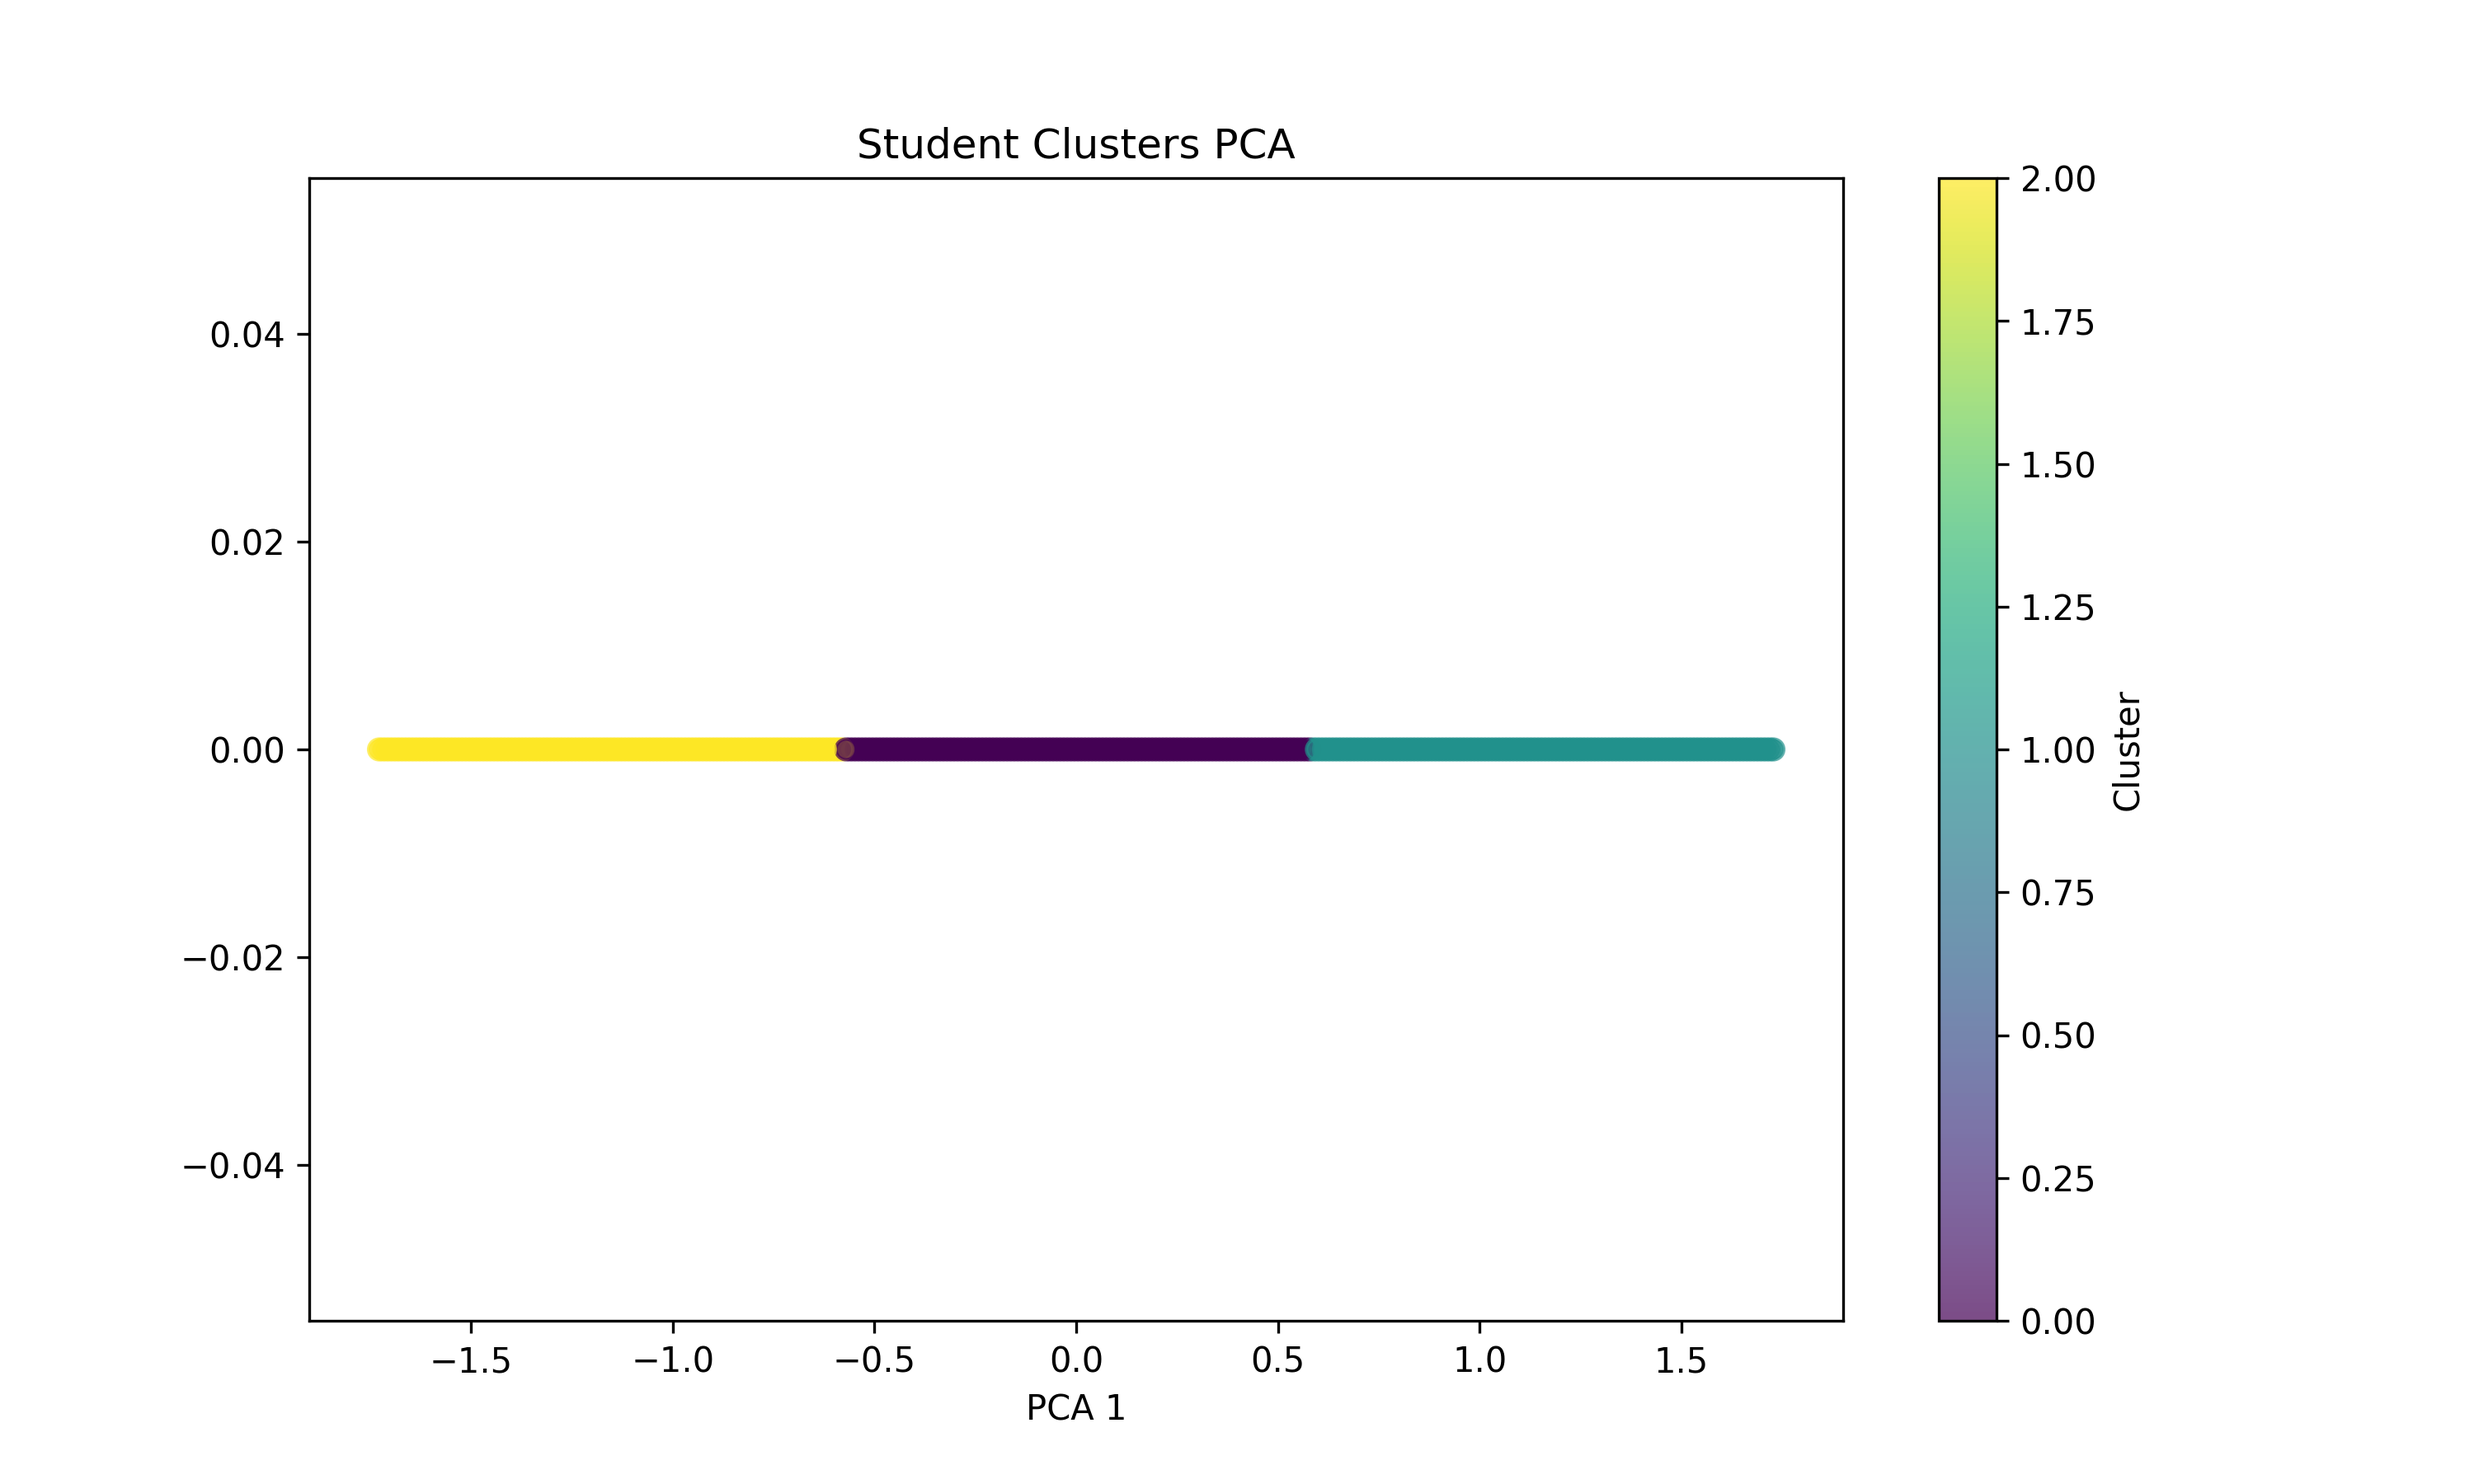
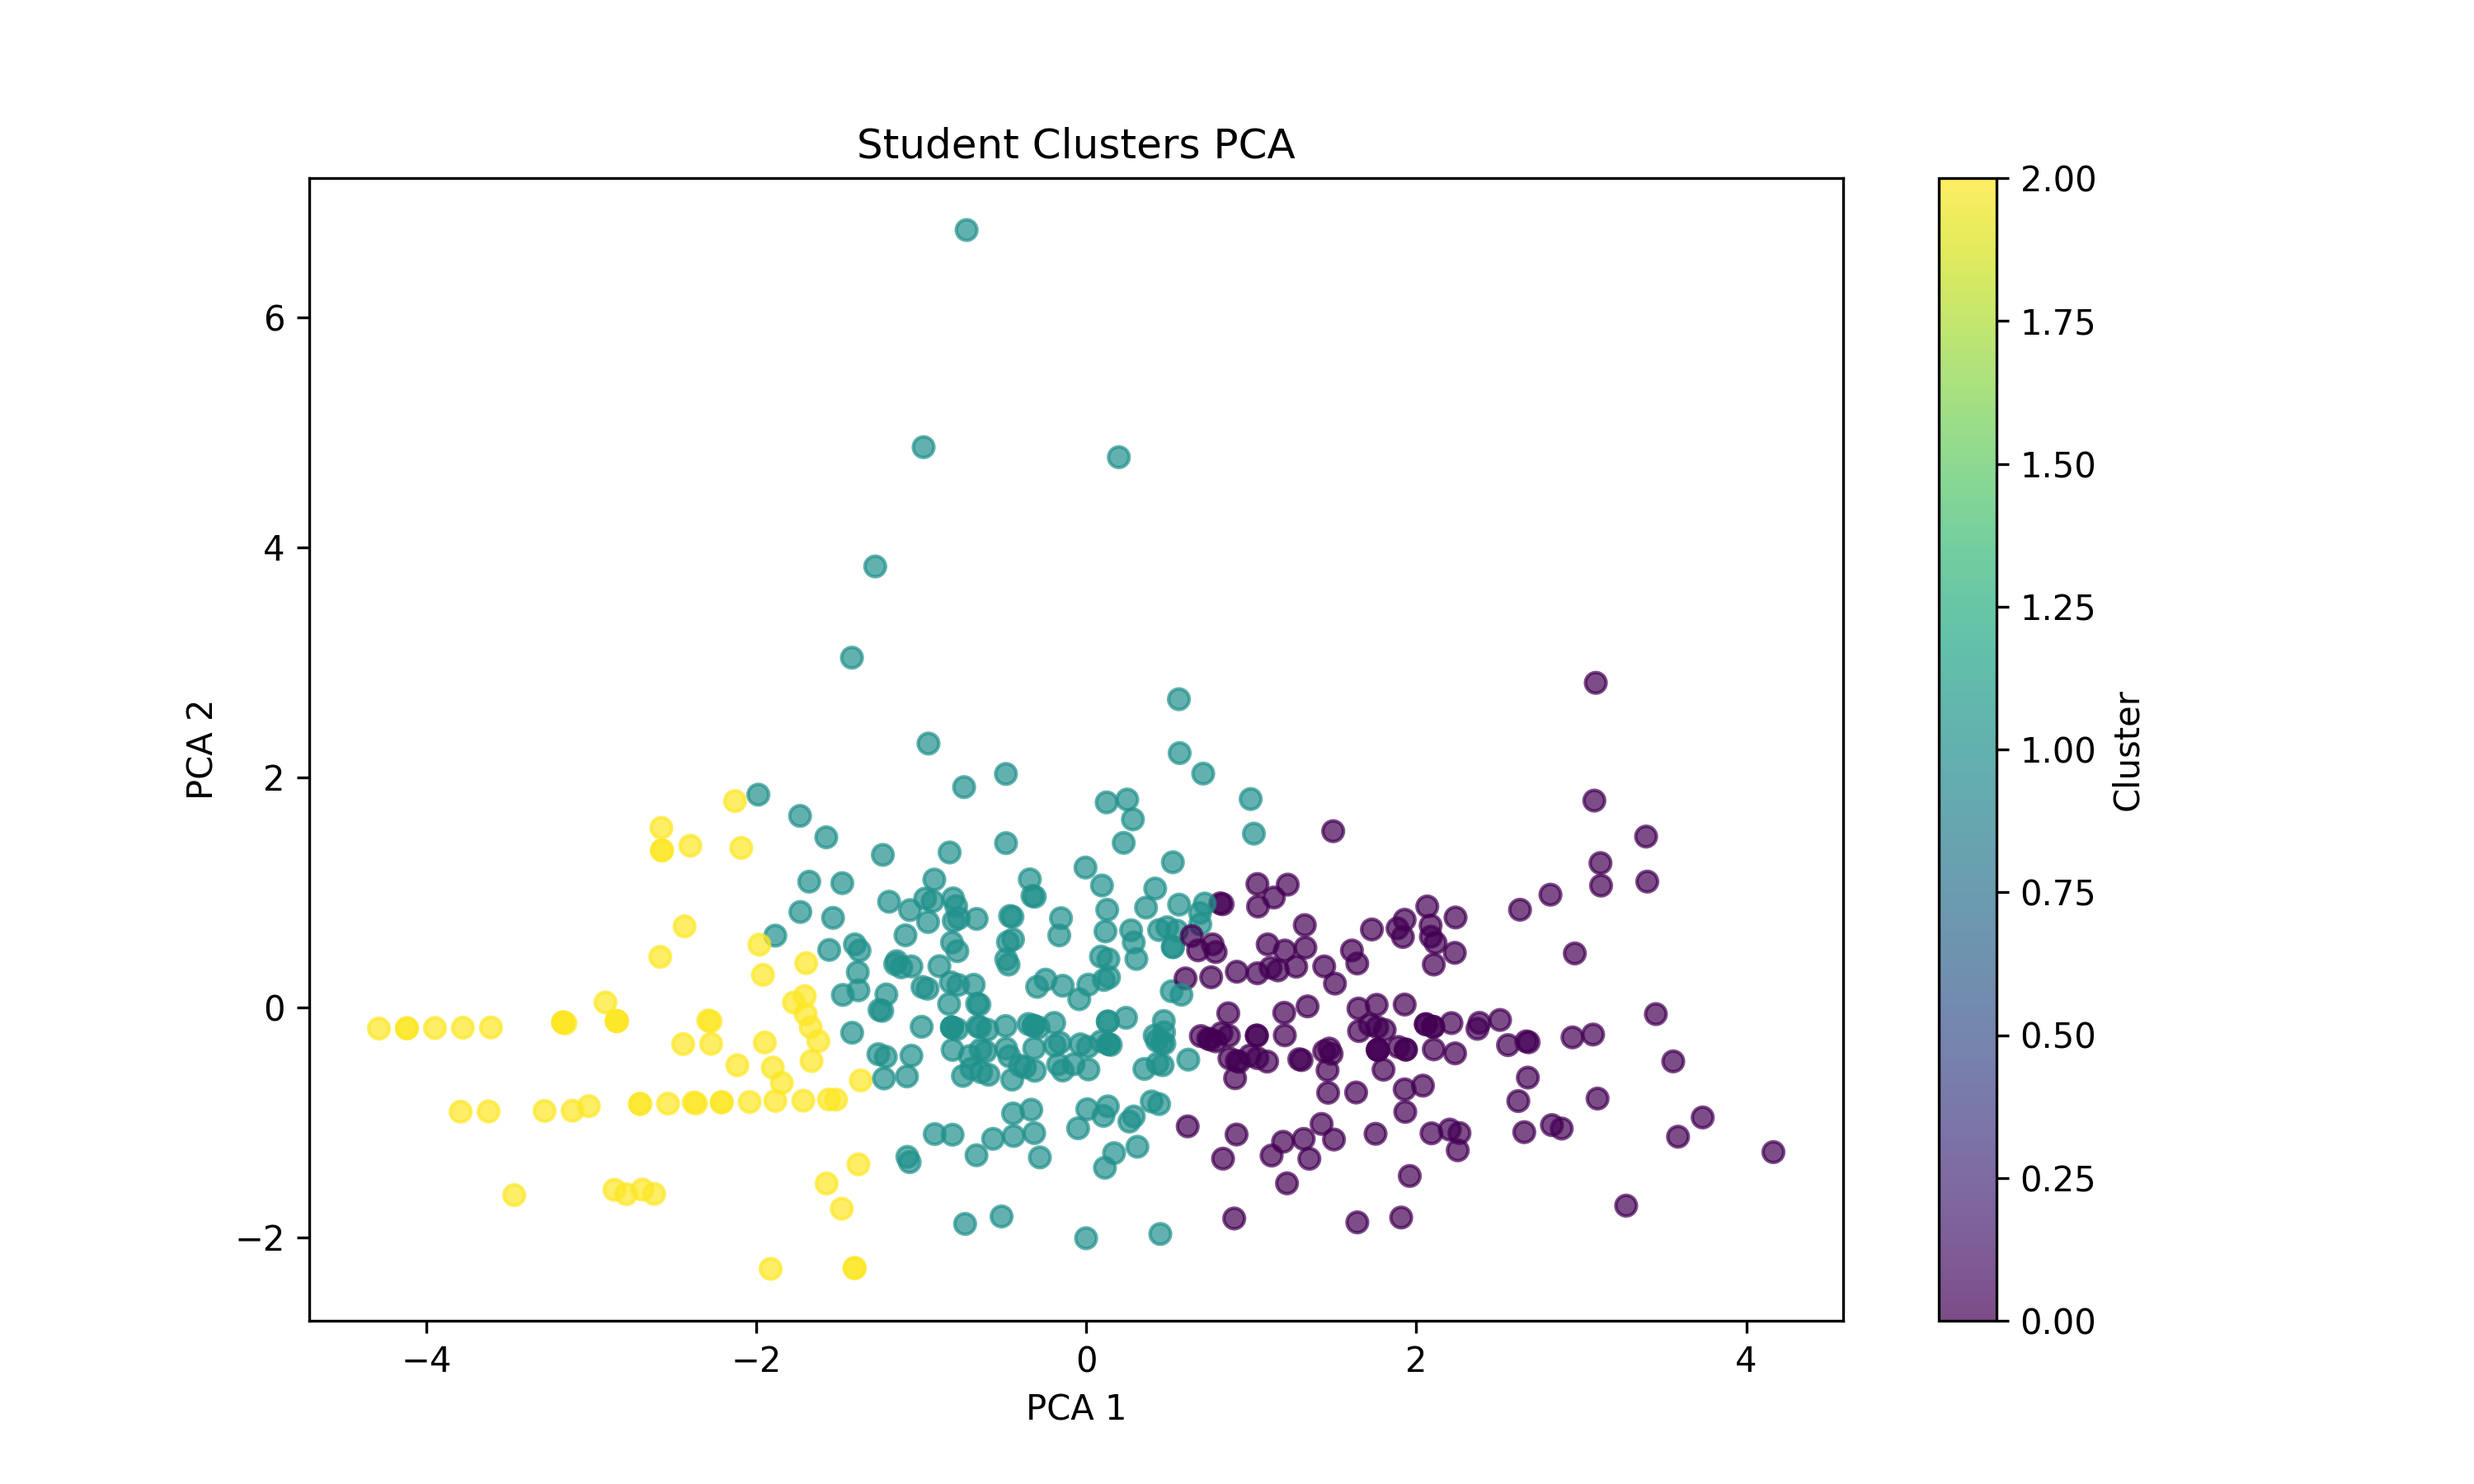
Initial commit - Streamlit student clustering project Resolve merge conflicts in student_clustering.py and update dual_login_app.py

diff --git a/dual_login_app.py b/dual_login_app.py
@@ -1,0 +1,146 @@
+import streamlit as st
+import pandas as pd
+import seaborn as sns
+import matplotlib.pyplot as plt
+from sklearn.metrics import silhouette_score
+from sklearn.decomposition import PCA 
+from student_clustering import preprocess_data, run_kmeans, cluster_summary, plot_pca
+from textblob import TextBlob
+from student_clustering import load_dataset
+
+DEFAULT_CSV = "student-mat.csv"
+st.title("Student Clustering Prototype")
+role = st.radio("Login as:", ["Student", "Teacher"])
+
+#  student portal
+
+if role == "Student":
+    st.subheader("Student Portal")
+    st.markdown("Enter your academic and skill details to get suggested study groups.")
+
+    with st.form("student_form"):
+        name = st.text_input("Name")
+        grade = st.number_input("Average Grade", min_value=0, max_value=20, value=10)
+        study_time = st.number_input("Study Hours per Week", min_value=0, max_value=40, value=5)
+        absences = st.number_input("Number of Absences", min_value=0, max_value=50, value=0)
+        # skills = st.text_area("Skills / Interests (comma-separated)")
+        article = st.text_area("Write a short article about yourself")
+        submit_student = st.form_submit_button("Get Suggested Group")
+
+    if submit_student:
+        st.success(f"Hello {name}, your group suggestions are being generated...")
+
+        # df = pd.read_csv(DEFAULT_CSV, sep=';')
+        # df['StudentID'] = df.get('StudentID', pd.Series(range(1, len(df)+1)))
+
+        df = load_dataset(DEFAULT_CSV, sep=';')
+        df['StudentID'] = df.get('StudentID', pd.Series(range(1, len(df)+1)))
+
+        # Extract structured features from article
+        def extract_features_from_article(text):
+            word_count = len(text.split())
+            avg_word_len = sum(len(w) for w in text.split()) / (word_count or 1)
+            sentiment = TextBlob(text).sentiment.polarity
+            return pd.Series({
+                'word_count': word_count,
+                'avg_word_len': avg_word_len,
+                'sentiment': sentiment
+            })
+
+        article_features = extract_features_from_article(article)
+
+        new_student = pd.DataFrame([{
+            'G1': grade,
+            'G2': grade,
+            'G3': grade,
+            'studytime': study_time,
+            'absences': absences,
+            'word_count': article_features['word_count'],
+            'avg_word_len': article_features['avg_word_len'],
+            'sentiment': article_features['sentiment']
+        }])
+        df = pd.concat([df, new_student], ignore_index=True)
+
+
+        # Features to use for clustering
+        base_features = ['G1','G2','G3','studytime','absences']
+        all_features = base_features + ['word_count', 'avg_word_len', 'sentiment']
+
+
+        # Preprocess and scale
+        df_encoded, X_scaled = preprocess_data(df, all_features, drop_cols=['StudentID'])
+
+        # Run KMeans
+        labels, kmeans = run_kmeans(X_scaled, n_clusters=3)
+        df, summary = cluster_summary(df, labels)
+
+        # Current student's cluster
+        current_student_id = df.iloc[-1]['StudentID']
+        student_cluster = df.iloc[-1]['Cluster']
+        st.info(f"You belong to Cluster {student_cluster}")
+
+        # Suggested peers (exclude current student)
+        peers = df[(df['Cluster'] == student_cluster) & (df['StudentID'] != current_student_id)]
+        st.subheader("Suggested Peer Group")
+        # st.dataframe(peers[['StudentID','G1','G2','G3','studytime','absences']])
+        st.dataframe(peers[['StudentID'] + base_features + ['word_count','avg_word_len','sentiment']])
+
+       
+
+
+else:
+    st.subheader("Teacher Portal")
+    st.markdown("Upload student dataset to analyze clusters and form groups.")
+
+    uploaded_file = st.file_uploader("Upload CSV", type=["csv"])
+    if uploaded_file:
+        df = pd.read_csv(uploaded_file, sep=';')
+    else:
+        st.info(f"No file uploaded. Using default dataset: {DEFAULT_CSV}")
+        # df = pd.read_csv(DEFAULT_CSV, sep=';')
+        df = load_dataset(DEFAULT_CSV, sep=';')
+
+    df['StudentID'] = df.get('StudentID', pd.Series(range(1, len(df)+1)))
+    st.dataframe(df.head())
+
+    # Feature selection
+    features = st.multiselect(
+        "Select features for clustering",
+        df.columns.tolist(),
+        default=['G1','G2','G3','studytime','absences']
+    )
+
+    if features:
+        # Preprocess and scale
+        df_encoded, X_scaled = preprocess_data(df, features, drop_cols=['StudentID'])
+
+        # Select number of clusters
+        n_clusters = st.slider("Select number of clusters", min_value=2, max_value=6, value=3)
+        labels, kmeans = run_kmeans(X_scaled, n_clusters)
+        df, summary = cluster_summary(df, labels)
+
+        # Silhouette Score
+        sil_score = silhouette_score(X_scaled, labels)
+        st.write(f"Silhouette Score: {sil_score:.2f}")
+
+        # Cluster Summary
+        st.subheader("Cluster Summary")
+        st.dataframe(summary)
+
+        # PCA Visualization
+        st.subheader("Student Clusters PCA")
+        pca = PCA(n_components=2)
+        X_pca = pca.fit_transform(X_scaled)
+        fig, ax = plt.subplots(figsize=(8,6))
+        scatter = ax.scatter(X_pca[:,0], X_pca[:,1], c=labels, cmap='viridis', alpha=0.7)
+        ax.set_xlabel("PCA 1")
+        ax.set_ylabel("PCA 2")
+        ax.set_title("Student Clusters (PCA)")
+        st.pyplot(fig)
+
+        # plot_pca(X_scaled, labels)
+        #  heatmap visulaization
+        st.subheader("Feature Correlation Heatmap")
+        fig,ax= plt.subplots(figsize=(8,6))
+        sns.heatmap(df_encoded[features].corr(), annot=True, cmap="coolwarm", ax=ax)
+        st.pyplot(fig)

diff --git a/student_clustering.py b/student_clustering.py
@@ -4,49 +4,49 @@ from sklearn.preprocessing import StandardScaler, LabelEncoder
 from sklearn.cluster import KMeans
 from sklearn.decomposition import PCA
 from sklearn.metrics import silhouette_score
+import os
 
-def load_dataset(csv_path="student-mat.csv"):
-    """
-    Load dataset and add a unique StudentID.
-    """
-    df = pd.read_csv(csv_path)
-    df['StudentID'] = df.index + 1
+
+def load_dataset(csv_path="student-mat.csv", sep=';'):
+    df = pd.read_csv(csv_path, sep=sep)
+    if 'StudentID' not in df.columns:
+        df['StudentID'] = df.index + 1
     return df
 
-def preprocess_data(df, drop_cols=['StudentID']):
-    """
-    Encode categorical variables and scale numeric features.
-    Returns encoded dataframe and scaled numpy array.
-    """
+def preprocess_data(df, features, drop_cols=None):
+    if drop_cols is None:
+        drop_cols = []
+
     df_encoded = df.copy()
+    
+    # Encode categorical columns
     for col in df_encoded.select_dtypes(include='object').columns:
         le = LabelEncoder()
         df_encoded[col] = le.fit_transform(df_encoded[col])
     
-    X_scaled = StandardScaler().fit_transform(df_encoded.drop(columns=drop_cols))
+    # Drop unwanted columns
+    if drop_cols:
+        df_encoded = df_encoded.drop(columns=drop_cols, errors='ignore')
+
+    # Fill NaN/missing in features
+    df_encoded[features] = df_encoded[features].fillna(df_encoded[features].mean())
+    
+    # Scale features
+    X_scaled = StandardScaler().fit_transform(df_encoded[features])
     return df_encoded, X_scaled
 
+
 def run_kmeans(X_scaled, n_clusters=3, random_state=42):
-    """
-    Run KMeans clustering.
-    Returns cluster labels and trained KMeans object.
-    """
     kmeans = KMeans(n_clusters=n_clusters, random_state=random_state, n_init=10)
     labels = kmeans.fit_predict(X_scaled)
     return labels, kmeans
 
 def cluster_summary(df, labels):
-    """
-    Add cluster labels to dataframe and return cluster summary table.
-    """
     df['Cluster'] = labels
     summary = df.groupby("Cluster").mean(numeric_only=True)
     return df, summary
 
 def cluster_centers_original(df_encoded, kmeans, drop_cols=['StudentID']):
-    """
-    Transform cluster centers back to approximate original values.
-    """
     scaler = StandardScaler().fit(df_encoded.drop(columns=drop_cols))
     centers_original = pd.DataFrame(
         scaler.inverse_transform(kmeans.cluster_centers_),
@@ -55,9 +55,6 @@ def cluster_centers_original(df_encoded, kmeans, drop_cols=['StudentID']):
     return centers_original
 
 def plot_pca(X_scaled, labels, save_path="student_clusters_pca.png"):
-    """
-    Perform PCA (2 components) and plot scatter of clusters.
-    """
     n_components = min(2, X_scaled.shape[1])
     pca = PCA(n_components=n_components)
     X_pca = pca.fit_transform(X_scaled)
@@ -73,24 +70,29 @@ def plot_pca(X_scaled, labels, save_path="student_clusters_pca.png"):
     plt.savefig(save_path, dpi=300)
     plt.show()
 
-def save_clustered_groups(df):
-    """
-    Save each cluster as separate CSV and full dataset.
-    """
-    for cluster_num in sorted(df["Cluster"].unique()):
-        df[df["Cluster"] == cluster_num].to_csv(f"group_cluster_{cluster_num}.csv", index=False)
-    df.to_csv("student_clustered_results.csv", index=False)
-    print("\nClustered results saved as 'student_clustered_results.csv'")
+def save_clustered_groups(df, output_dir="clustered_output"):
+    os.makedirs(output_dir,exist_ok = True)
 
-# -------------------------
-# Standalone execution
-# -------------------------
+    for cluster_num in sorted(df["Cluster"].unique()):
+    #     df[df["Cluster"] == cluster_num].to_csv(f"group_cluster_{cluster_num}.csv", index=False)
+    # df.to_csv("student_clustered_results.csv", index=False)
+    # print("\nClustered results saved as 'student_clustered_results.csv'")
+      df[df["Cluster"] == cluster_num].to_csv(
+            os.path.join(output_dir, f"group_cluster_{cluster_num}.csv"), index=False
+        )
+      
+    # Optionally, save the full dataset
+    df.to_csv(os.path.join(output_dir, "student_clustered_results.csv"), index=False)
+    print(f"\nClustered results saved in folder '{output_dir}'")
+
+
 if __name__ == "__main__":
     df = load_dataset()
     print("Dataset shape:", df.shape)
     print(df.head())
 
-    df_encoded, X_scaled = preprocess_data(df)
+    features = ['G1','G2','G3','studytime','absences']
+    df_encoded, X_scaled = preprocess_data(df, features)
     labels, kmeans = run_kmeans(X_scaled, n_clusters=3)
 
     df, summary = cluster_summary(df, labels)
@@ -107,13 +109,11 @@ if __name__ == "__main__":
     print("\nNumber of students per cluster:")
     print(df["Cluster"].value_counts())
 
-    print("\n--- Student Groups by Cluster ---")
-    for cluster_num in sorted(df["Cluster"].unique()):
-        group_students = df[df["Cluster"] == cluster_num]['StudentID'].tolist()
-        print(f"\nGroup {cluster_num} ({len(group_students)} students):")
-        print(", ".join(map(str, group_students)))
+    # print("\n--- Student Groups by Cluster ---")
+    # for cluster_num in sorted(df["Cluster"].unique()):
+    #     group_students = df[df["Cluster"] == cluster_num]['StudentID'].tolist()
+    #     print(f"\nGroup {cluster_num} ({len(group_students)} students):")
+    #     print(", ".join(map(str, group_students)))
 
     plot_pca(X_scaled, labels)
     save_clustered_groups(df)
-
-
